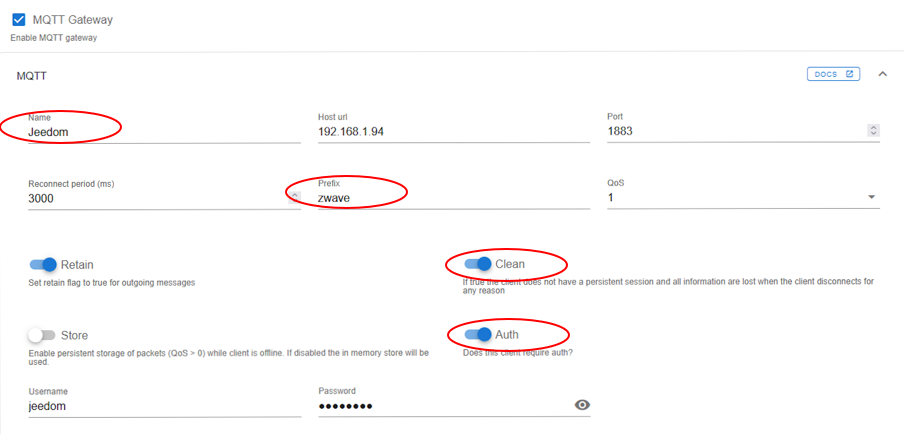
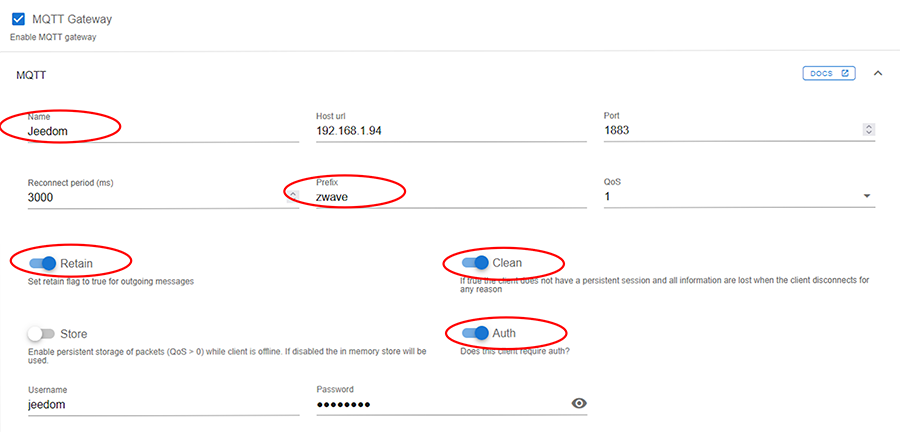
v3.2

diff --git a/desktop/js/zwavejs.js b/desktop/js/zwavejs.js
@@ -659,26 +659,14 @@ function addCmdToTable(_cmd) {
         _cmd.configuration = {}
 
     const cmdLid = _cmd.logicalId;
-    const eqId = _cmd.eqLogic_id;
-    if (!isset(eqId))
-        return;
-
-    jeedom.eqLogic.byId({ id: eqId,
-        success: function (eqLogic) {
-            if (cmdLid.toLowerCase().startsWith('0-0-')) {
-                $('#zwavejs_table tbody').append(buildCmd(_cmd))
-                var tr = $('#zwavejs_table tbody tr').last()
-            } else {
-                $('#commands_table tbody').append(buildCmd(_cmd))
-                var tr = $('#commands_table tbody tr').last()
-            }
-            displayCmd(_cmd,tr);
-        },
-        error: function(error) {
-            // alert ('error in addCmdToTable: ' + error.message + ' eqId:' +eqId +' cmdId: ' + _cmd.id);
-            $.fn.showAlert({ message: error.message, level: 'danger' })
-        }
-    });
+    if (cmdLid.toLowerCase().startsWith('0-0-')) {
+	$('#zwavejs_table tbody').append(buildCmd(_cmd))
+	var tr = $('#zwavejs_table tbody tr').last()
+    } else {
+	$('#commands_table tbody').append(buildCmd(_cmd))
+	var tr = $('#commands_table tbody tr').last()
+    }
+    displayCmd(_cmd,tr);
 }
 
 function saveEqLogic(_eqLogic) {

diff --git a/README.html b/README.html
@@ -170,6 +170,8 @@ usage: zwavejs {start|stop|restart|status}
 <h2>Changelog</h2>
 
 <ul>
+<li>v3.2 <a href="https://github.com/lxrootard">lxrootard</a>
+<br> - documentation update + code optimization</li>
 <li>v3.1 <a href="https://github.com/lxrootard">lxrootard</a>
 <br> - dependancy fix for Jeedom 4.5 + bugfix</li>
 <li>v3 <a href="https://github.com/lxrootard">lxrootard</a>

diff --git a/README.md b/README.md
@@ -154,6 +154,8 @@ Vérifiez la communication en cliquant sur le bouton `Tester`
 
 ## Changelog
 
+* v3.2 [lxrootard](https://github.com/lxrootard)
+<br> - documentation update + code optimization
 * v3.1 [lxrootard](https://github.com/lxrootard)
 <br> - dependancy fix for Jeedom 4.5 + bugfix
 * v3 [lxrootard](https://github.com/lxrootard)
